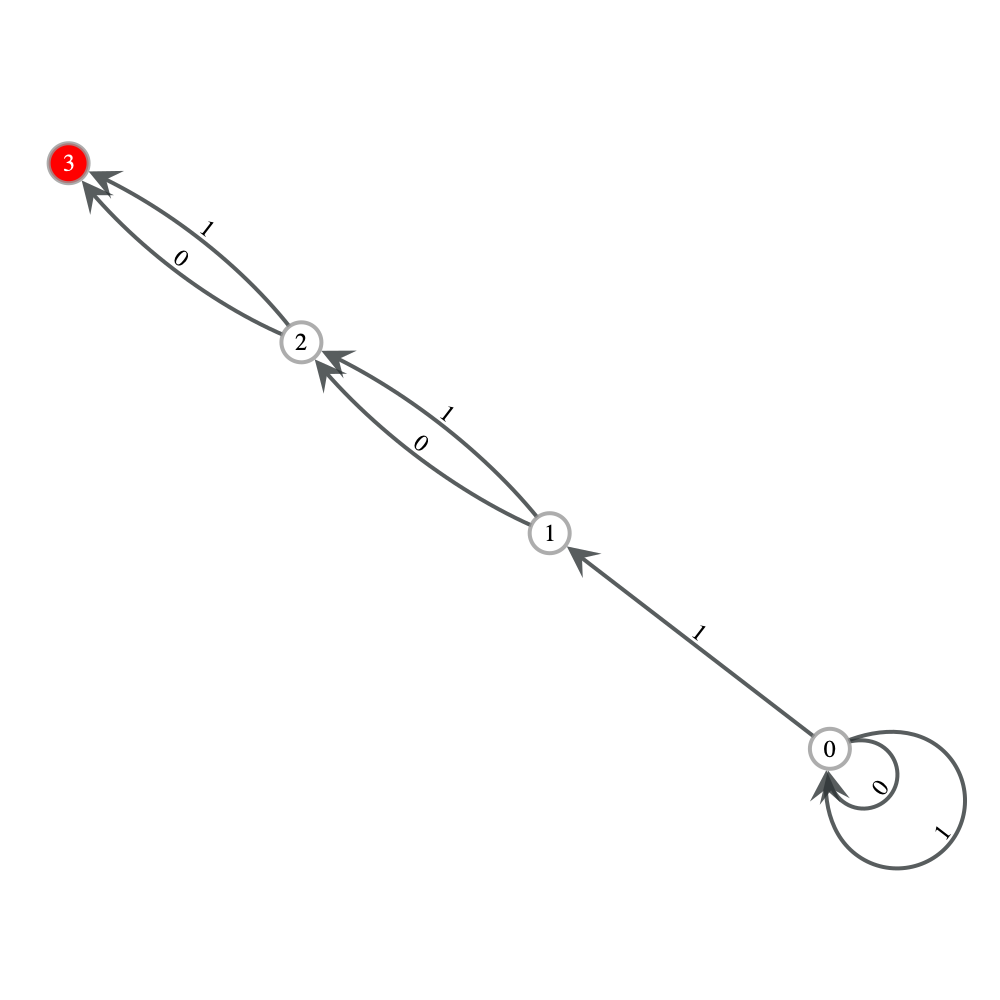
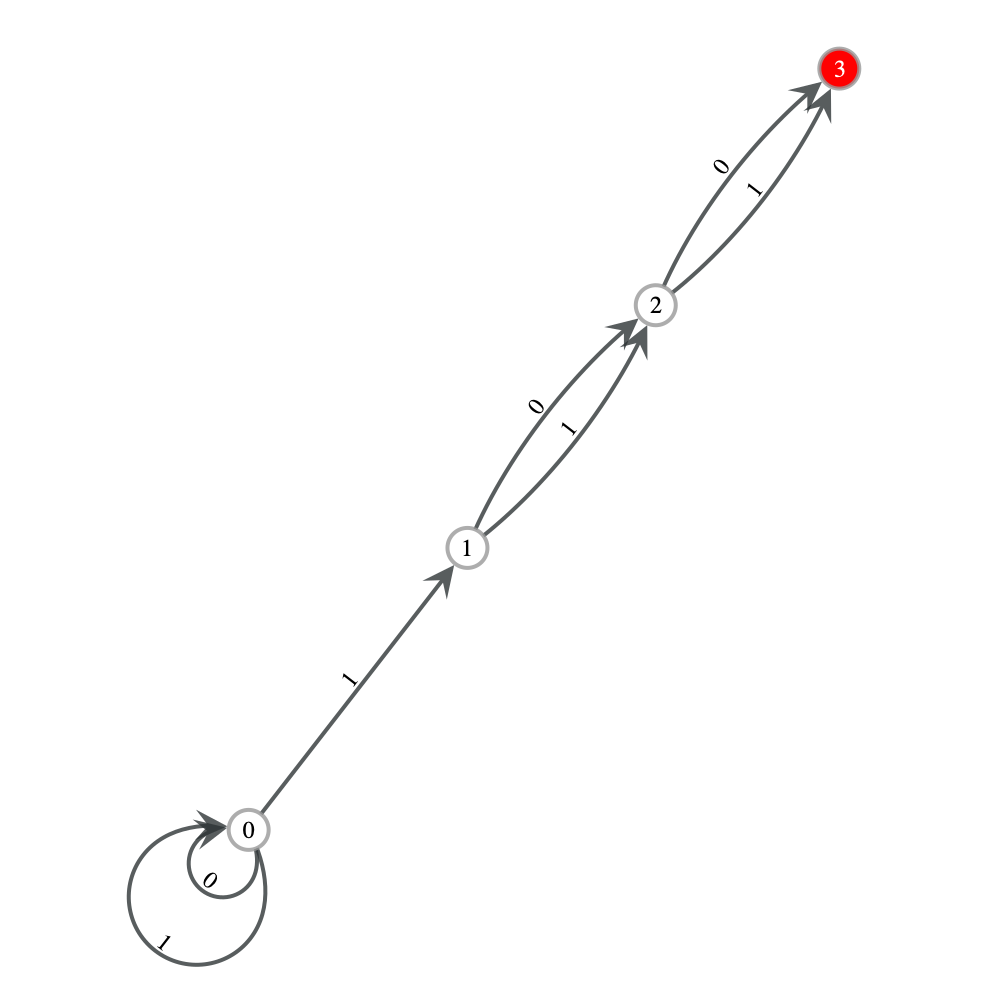
Adding class method for constructing a DFA from an NFA, moving some methods out of the DFA class, changing color scheme to account for states that are final and initial, and writing a demo script for converting NFAs to DFAs.

diff --git a/src/dfa.py b/src/dfa.py
@@ -1,6 +1,60 @@
 from graph_tool import Graph
 from graph_tool.draw import graph_draw
 
+def new_ind_to_power_set(ind, nfa_size):
+    return list(a for (a, b) in zip(range(nfa_size), format(ind, f"0{nfa_size}b")) if b=="1")
+
+def power_set_to_new_ind(nfa_state_subset, nfa_size):
+    bin_str = ''
+    for state in range(nfa_size):
+        if state in nfa_state_subset:
+            bin_str += "1"
+        else:
+            bin_str += "0"
+    return int(bin_str, 2)
+
+def epsilon_set(state_set, delta):
+    return set().union(*[delta[state]["_"] for state in state_set])
+
+def epsilon_closure(state_set, delta):
+    eps_set = epsilon_set(state_set, delta)
+    if eps_set.issubset(state_set):
+        return state_set
+    return epsilon_closure(state_set.union(eps_set), delta)
+
+def reduce_dfa(full_dfa):
+    delta_range = set()
+    for state in full_dfa.states:
+        for symbol in full_dfa.alphabet:
+            delta_range.add(full_dfa.delta[state][symbol])
+    no_in_transitions = set(full_dfa.states).difference(delta_range)
+    if full_dfa.initial_state in no_in_transitions:
+        no_in_transitions.remove(full_dfa.initial_state)
+        delta_range.add(full_dfa.initial_state)
+    if len(no_in_transitions) == 0:
+        return full_dfa
+    new_delta = full_dfa.delta
+    new_final_states = full_dfa.final_states
+    for state in no_in_transitions:
+        del(new_delta[state])
+        if state in new_final_states:
+            new_final_states.remove(state)
+    new_dfa = DFA(delta_range, full_dfa.alphabet, new_delta, full_dfa.initial_state, new_final_states)
+    return reduce_dfa(new_dfa)
+
+def reindex_dfa(reduced_dfa):
+    reindexing_dict = dict(zip(reduced_dfa.states, range(len(reduced_dfa.states))))
+    new_states = [reindexing_dict[state] for state in reduced_dfa.states]
+    new_delta = dict()
+    for state in reduced_dfa.states:
+        state_trans = dict()
+        for symbol in reduced_dfa.alphabet:
+            state_trans[symbol] = reindexing_dict[reduced_dfa.delta[state][symbol]]
+        new_delta[reindexing_dict[state]] = state_trans
+    new_initial_state = reindexing_dict[reduced_dfa.initial_state]
+    new_final_states = [reindexing_dict[final_state] for final_state in reduced_dfa.final_states]
+    return DFA(new_states, reduced_dfa.alphabet, new_delta, new_initial_state, new_final_states)
+
 class DFA:
     def __init__(self, states, alphabet, delta, initial_state, final_states):
         self.states = states
@@ -8,7 +62,27 @@ class DFA:
         self.delta = delta
         self.initial_state = initial_state
         self.final_states = final_states
+        
+    @classmethod
+    def from_nfa(cls, nfa):
+        states = list(range(2 ** len(nfa.states)))
+        alphabet = nfa.alphabet[:-1]
+        delta = dict()
+        for state in states:
+            state_trans = dict()
+            power_subset = new_ind_to_power_set(state, len(nfa.states))
+            print(power_subset)
+            for symbol in alphabet:
+                next_power_subset = set().union(*[epsilon_closure(nfa.delta[nfa_state][symbol], nfa.delta) for nfa_state in power_subset])
+                state_trans[symbol] = power_set_to_new_ind(next_power_subset, len(nfa.states))
+            delta[state] = state_trans
+        initial_state = power_set_to_new_ind(epsilon_closure({nfa.initial_state}, nfa.delta), len(nfa.states))
+        final_states = [state for state in states if len(set(new_ind_to_power_set(state, len(nfa.states))).intersection(nfa.final_states)) > 0]
 
+        full_dfa = cls(states, alphabet, delta, initial_state, final_states)
+        reduced_dfa = reduce_dfa(full_dfa)
+        return reindex_dfa(reduced_dfa)
+        
     def compute(self, input_string, verbose=False):
         states = [self.initial_state]
         for symbol in input_string:
@@ -25,13 +99,18 @@ class DFA:
     def graph(self, file_out=None):
         g = Graph(directed=True)
         g.add_vertex(n=len(self.states))
-        vprop_dict = g.new_vertex_property("string")
+        vprop_dict_1 = g.new_vertex_property("string")
+        vprop_dict_2 = g.new_vertex_property("string")
         eprop_dict = g.new_edge_property("string")
         for state in self.states:
             if state in self.final_states:
-                vprop_dict[g.vertex(state)] = "red"
+                vprop_dict_1[g.vertex(state)] = "red"
             else:
-                vprop_dict[g.vertex(state)] = "white"
+                vprop_dict_1[g.vertex(state)] = "grey"
+            if state == self.initial_state:
+                vprop_dict_2[g.vertex(state)] = "green"
+            else:
+                vprop_dict_2[g.vertex(state)] = "white"
             for symbol in self.alphabet:
                 e = g.add_edge(
                     g.vertex(state),
@@ -43,7 +122,8 @@ class DFA:
             vertex_text=g.vertex_index,
             edge_text=eprop_dict,
             vertex_size=40,
-            vertex_fill_color=vprop_dict,
+            vertex_color=vprop_dict_1,
+            vertex_fill_color=vprop_dict_2,
             adjust_aspect=False,
             output_size=(1000,1000),
             output=file_out
@@ -65,4 +145,5 @@ if __name__ == "__main__":
     print(f"d {d.verdict(input_1)}s the string 111")
     print(f"d {d.verdict(input_2)}s the string 000")
     d.graph("../output/test.png")
+    
     

diff --git a/src/nfa_to_dfa_demo.py b/src/nfa_to_dfa_demo.py
@@ -1,0 +1,44 @@
+from dfa import DFA
+from nfa import NFA
+
+n1 = NFA([0, 1, 2, 3], ["0", "1"], {0: {"0": {0}, "1": {0, 1}, "_": set()}, 1: {"0": {2}, "1": set(), "_": {2}}, 2: {"0": set(), "1": {3}, "_": set()}, 3: {"0": {3}, "1": {3}, "_": set()}}, 0, [3])
+d1 = DFA.from_nfa(n1)
+input_1 = "111"
+input_2 = "000"
+input_3 = "10101"
+print(f"d1 {d1.verdict(input_1)}s the string 111")
+print(f"d1 {d1.verdict(input_2)}s the string 000")
+print(f"d1 {d1.verdict(input_3)}s the string 10101")
+d1.graph("../output/nfa_to_dfa_test_1.png")
+
+
+
+n2 = NFA([0, 1, 2, 3], ["0", "1"], {0: {"0": {0}, "1": {0, 1}, "_": set()}, 1: {"0": {2}, "1": {2}, "_": set()}, 2: {"0": {3}, "1": {3}, "_": set()}, 3: {"0": set(), "1": set(), "_": set()}}, 0, [3])
+d2 = DFA.from_nfa(n2)
+input_1 = "00111"
+input_2 = "00011"
+input_3 = "100"
+print(f"d2 {d2.verdict(input_1)}s the string 00111")
+print(f"d2 {d2.verdict(input_2)}s the string 00011")
+print(f"d2 {d2.verdict(input_3)}s the string 100")
+d2.graph("../output/nfa_to_dfa_test_2.png")
+
+n3 = NFA([0, 1, 2, 3, 4, 5], ["0"], {0: {"0": set(), "_": {1, 3}}, 1: {"0": {2}, "_": set()}, 2: {"0": {1}, "_": set()}, 3: {"0": {4}, "_": set()}, 4: {"0": {5}, "_": set()}, 5: {"0": {3}, "_": set()}}, 0, [1, 3])
+d3 = DFA.from_nfa(n3)
+input_1 = "000"
+input_2 = "0000"
+input_3 = "00000"
+print(f"d3 {d3.verdict(input_1)}s the string 000")
+print(f"d3 {d3.verdict(input_2)}s the string 0000")
+print(f"d3 {d3.verdict(input_3)}s the string 00000")
+d3.graph("../output/nfa_to_dfa_test_3.png")
+
+n4 = NFA([0, 1, 2], ["0", "1"], {0: {"0": set(), "1": {1}, "_": {2}}, 1: {"0": {1, 2}, "1": {2}, "_": set()}, 2: {"0": {0}, "1": set(), "_": set()}}, 0, [0])
+d4 = DFA.from_nfa(n4)
+input_1 = ""
+input_2 = "1010"
+input_3 = "10110"
+print(f"d4 {d4.verdict(input_1)}s the string \"\"")
+print(f"d4 {d4.verdict(input_2)}s the string 1010")
+print(f"d4 {d4.verdict(input_3)}s the string 10110")
+d4.graph("../output/nfa_to_dfa_test_4.png")

diff --git a/src/dfa_demo.py b/src/dfa_demo.py
@@ -5,7 +5,7 @@ input_1 = "111"
 input_2 = "000"
 print(f"d1 {d1.verdict(input_1)}s the string 111")
 print(f"d1 {d1.verdict(input_2)}s the string 000")
-d1.graph("../output/test_1.png")
+d1.graph("../output/dfa_test_1.png")
 
 d2 = DFA([0, 1, 2], ["0", "1"], {0: {"0": 0, "1": 1}, 1: {"0": 2, "1": 1}, 2: {"0": 1, "1": 1}}, 0, [1])
 input_1 = "111"
@@ -14,7 +14,7 @@ input_3 = "100"
 print(f"d2 {d2.verdict(input_1)}s the string 111")
 print(f"d2 {d2.verdict(input_2)}s the string 000")
 print(f"d2 {d2.verdict(input_3)}s the string 100")
-d2.graph("../output/test_2.png")
+d2.graph("../output/dfa_test_2.png")
 
 d3 = DFA([0, 1, 2, 3], ["0", "1"], {0: {"0": 1, "1": 0}, 1: {"0": 2, "1": 0}, 2: {"0": 2, "1": 3}, 3: {"0": 3, "1": 3}}, 0, [3])
 input_1 = "10010"
@@ -23,4 +23,4 @@ input_3 = "100"
 print(f"d3 {d3.verdict(input_1)}s the string 10010")
 print(f"d3 {d3.verdict(input_2)}s the string 0001")
 print(f"d3 {d3.verdict(input_3)}s the string 100")
-d3.graph("../output/test_3.png")
+d3.graph("../output/dfa_test_3.png")
